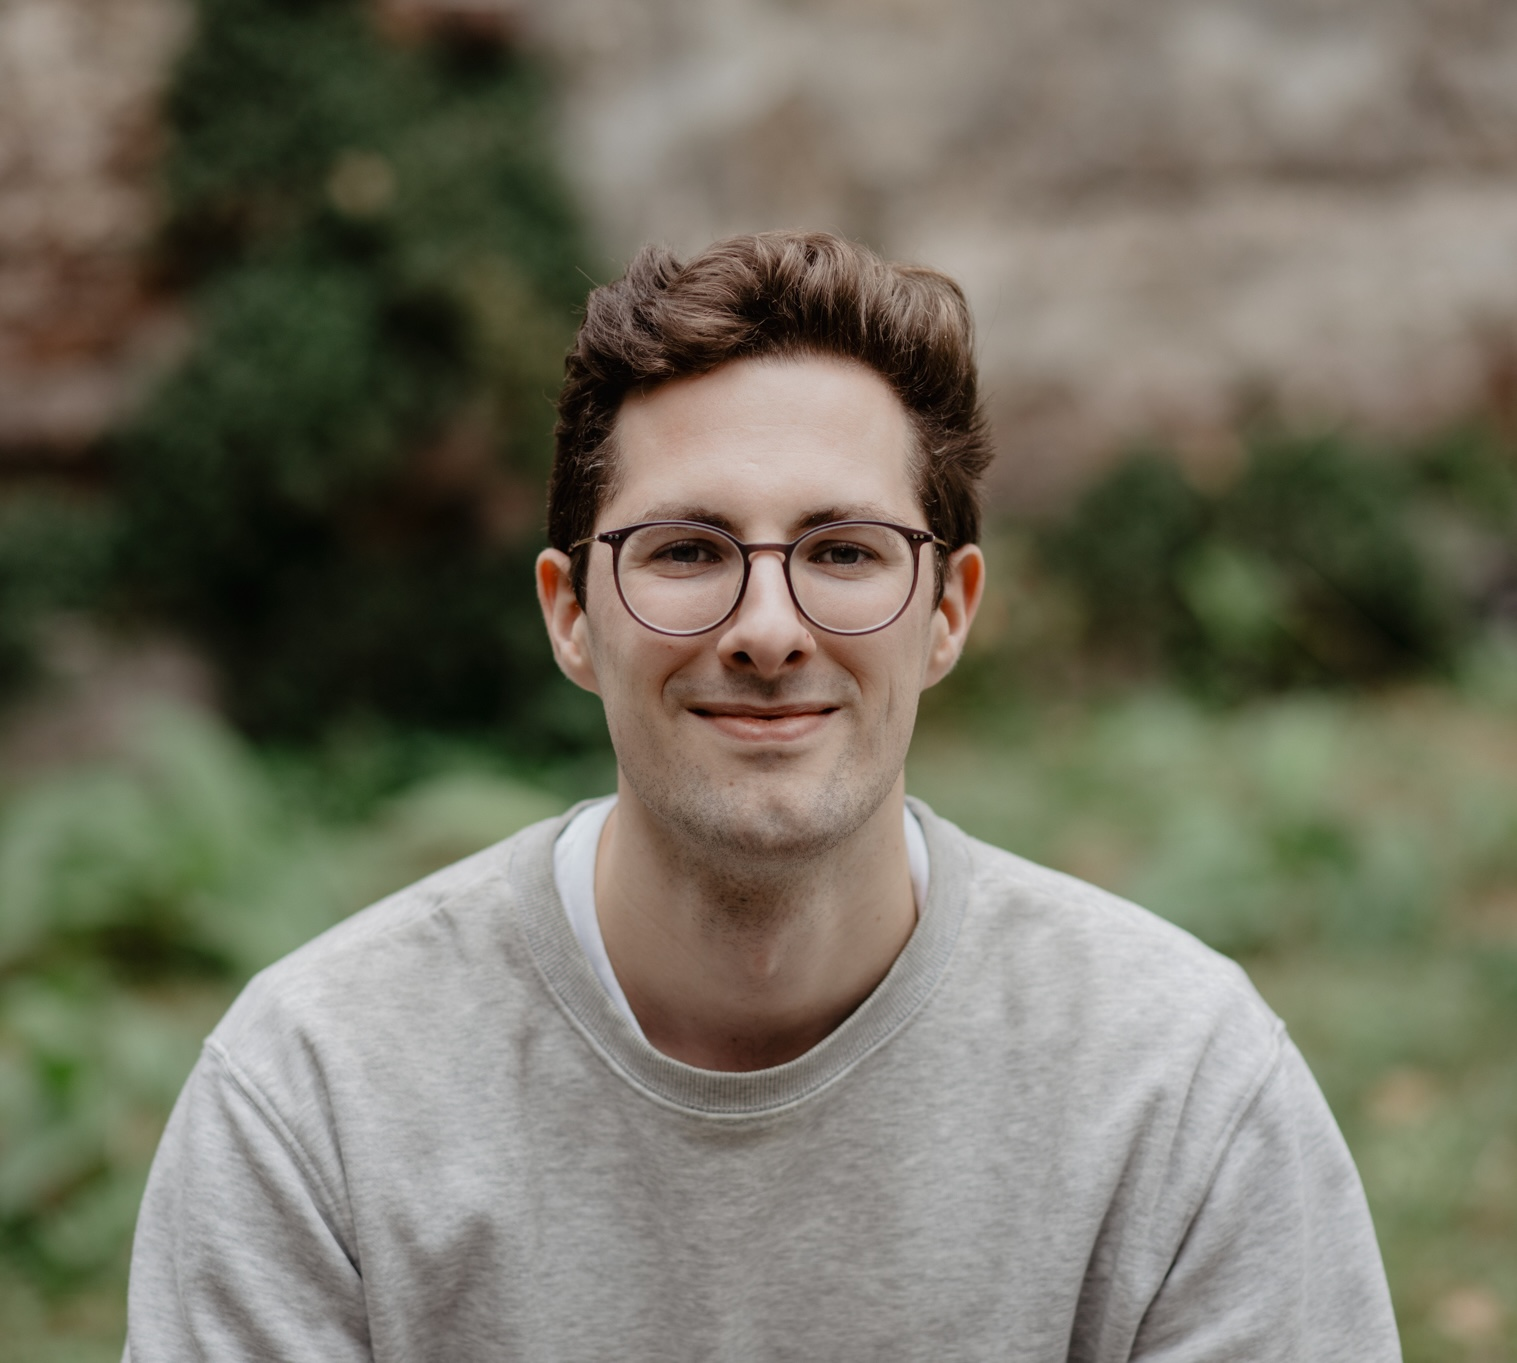
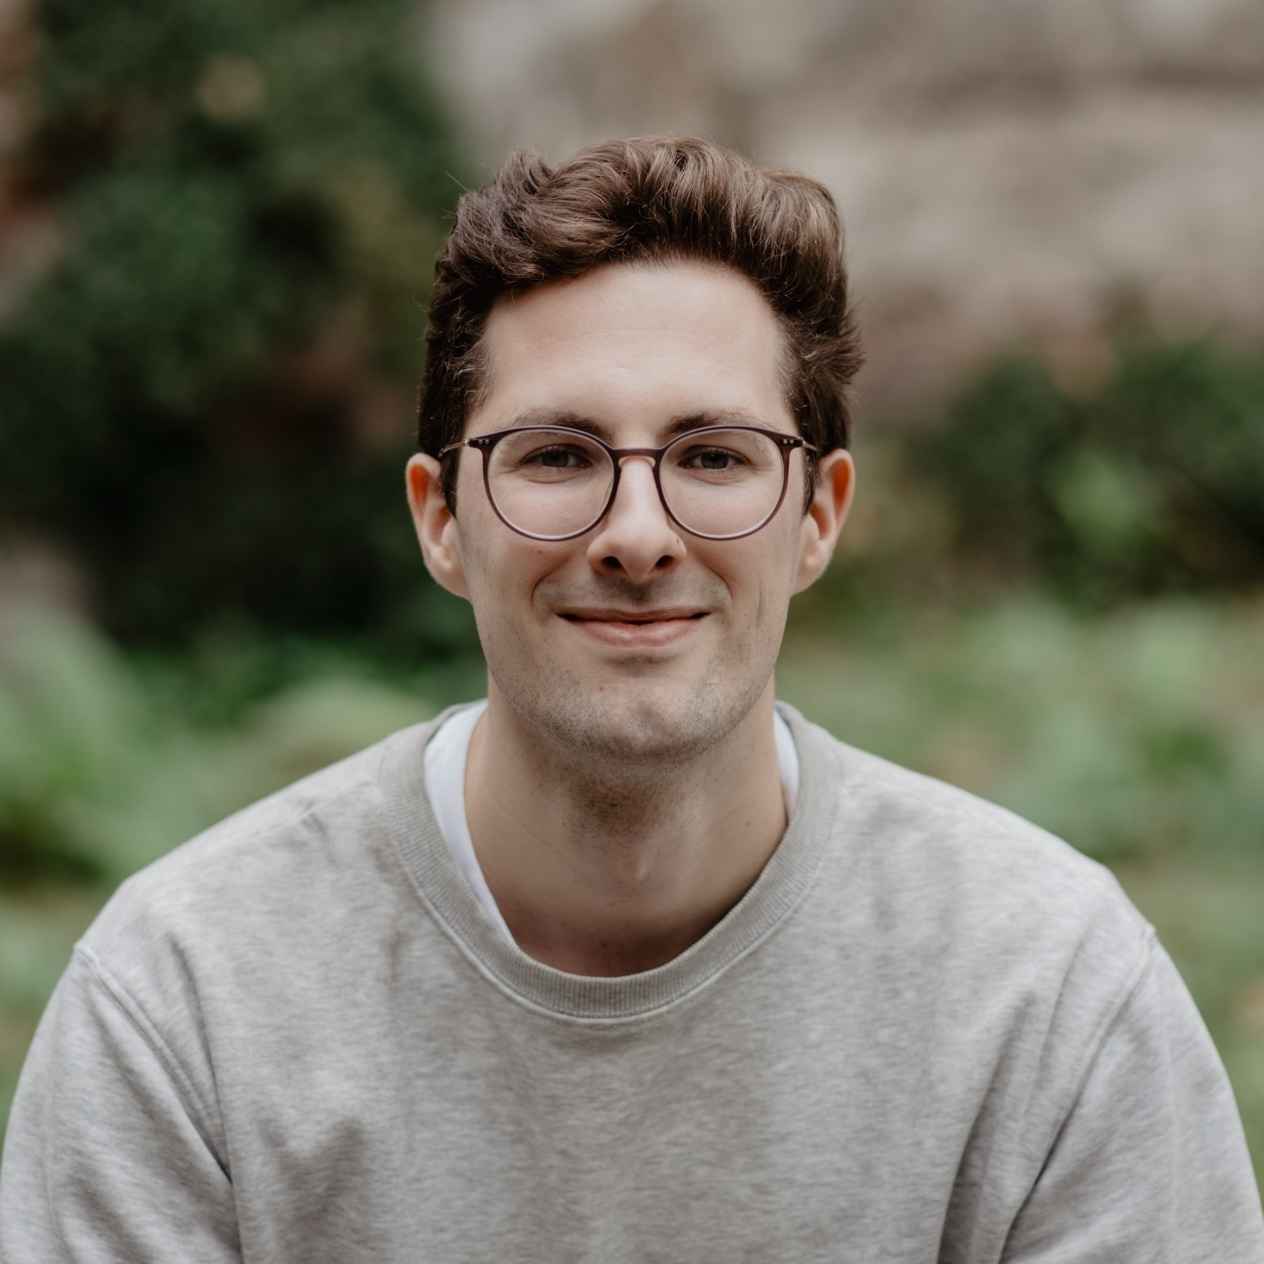
finish v1 of website

diff --git a/index.html b/index.html
@@ -17,8 +17,9 @@
                 <div class="menu">
                     <a href="/index.html#projects">Projekte</a>
                     <a href="/index.html#tech-stack">Tech-Stack</a>
+                    <a href="/index.html#tools">Tools</a>
                     <a href="/index.html#about-me">Über mich</a>
-                    <a href="/index.html#imprint">Impressum</a>
+                    <a href="/imprint.html">Impressum</a>
                 </div>
             </div>
                 <div class="container" id="projects">
@@ -35,7 +36,7 @@
                             </div>    
                             <img src="/assets/jobjournal_logo.png">
                         </div>
-                            <p>Jobjournal entstand im Rahmen meiner <a href="https://th-koeln.github.io/mi-bachelor-praxisprojektseminar/abschlussvortraege/2022-07-05/brock-sebastian/">Bachelorarbeit</a> an der TH Köln.<br><br>Ziel war es, eine Progressive Web App mit Offline-Fähigkeit für ein Unternehmen zu entwickeln, sodass Mitarbeiter auch in Arbeitssituationen ohne Internetverbindung Arbeitspläne verwalten, und geleistete Arbeitszeit eintragen konnten.<br><br>Die App ist bis heute erfolgreich im Unternehmen im Einsatz und wird stetig erweitert - so kam seit Abschluss der Bachelorarbeit u.A. ein komplettes Abrechnungssystem mit Anbindung an die Buchhaltung hinzu.</p>
+                            <p>Jobjournal entstand im Rahmen meines <a href="https://th-koeln.github.io/mi-bachelor-praxisprojektseminar/abschlussvortraege/2022-07-05/brock-sebastian/">Praxisprojekts & Bachelorarbeit</a> an der TH Köln.<br><br>Ziel war es, eine Progressive Web App mit Offline-Fähigkeit für ein Partnerunternehmen zu entwickeln, sodass Mitarbeiter auch in Arbeitssituationen ohne Internetverbindung Arbeitspläne verwalten, und geleistete Arbeitszeit eintragen konnten.<br><br>Die App ist bis heute erfolgreich im Unternehmen im Einsatz und wird stetig erweitert - so kam seit Abschluss der Bachelorarbeit u.A. ein komplettes Abrechnungssystem mit Anbindung an die Buchhaltung hinzu.</p>
                         </div>
                         <div class="container-post">
                             <div class="container-header">
@@ -91,12 +92,53 @@
                         </div>
                     </div>
                 </div>
+                <div class="container" id="tools">
+                    <h2>Tools</h2>
+                    <p>Außerdem habe ich Erfahrung mit dieser Software.</p>
+                    <div class="post-wrapper">
+                        <div class="container-post grid">
+                            <div class="single-tech">
+                                <h4>Reaper</h4>
+                                <img src="assets/reaper-logo.png">
+                            </div>
+                            <div class="single-tech">
+                                <h4>Figma</h4>
+                                <img src="assets/figma-logo.png">
+                            </div>
+                            <div class="single-tech">
+                                <h4>Photoshop</h4>
+                                <img src="assets/photoshop-logo.png">
+                            </div>
+                            <div class="single-tech">
+                                <h4>Premiere</h4>
+                                <img src="assets/premiere-logo.png">
+                            </div>
+                            <div class="single-tech">
+                                <h4>PHPStorm</h4>
+                                <img src="assets/phpstorm-logo.png">
+                            </div>
+                            <div class="single-tech">
+                                <h4>VS Code</h4>
+                                <img src="assets/vscode-logo.png">
+                            </div>
+                        </div>
+                    </div>
+                </div>
                 <div class="container" id="about-me">
                     <h2>Über mich</h2>
                     <div class="post-wrapper">
                         <div class="container-post">
+                            <div class="about-me-content text">
+                                <div class="me-header">
+                                    <img src="assets/sebastian.jpg">
+                                    <p>Nachdem ich als Kind den alten Commodore64 meines Onkels auf dem Dachboden fand, zeichnete sich der restliche Weg praktisch von alleine ab.
+                                    <br><br>Nach dem Abitur startete ich nahtlos in mein Medieninformatik-Studium an der TH Köln. Da mich die ganzheitliche Sicht von Systementwicklung interessiert, und nicht nur der reine Code, wusste ich in dem Studiengang vor allem die Flexibilität und mehrdimensionale Ansicht auf Projekte zu schätzen.
+                                    <br><br>Die stereotypische Aussage <i>"Ein Medieninformatiker kann von allem etwas, und nichts perfekt"</i> teile ich gewissermaßen und sehe es als großen Vorteil meiner Ausbildung.
+                                    <br><br>Meine Medien-Interessen lebe ich durch mein Mitwirken an der <a href="https://warehousestage.de/">WareHouseStage</a> aus, oder durch die Produktion von Podcasts wie dem <a href="https://www.circuculture.com/podcasts/circu-cast-der-podcast-uber-berufsbilder-und-personen-der-kreislaufwirtschaft-2">Circu:Cast</a>.
+                                </p>
+                                </div>
+                            </div>
                             <div class="about-me-content">
-                                <!--<p>Willkommen auf meiner Homepage! Die Domain hat lange einfach auf meine <a href="https://www.linkedin.com/in/sebastian-brock-974783204/">LinkedIn-Seite</a> gezeigt, nun wollte ich aber umgesetzte Projekte mit etwas mehr Persönlichkeit im Web präsentieren.</p>-->
                                 <div class="category">
                                     <h3>Bildungsweg</h3>
                                     <h4>2019</h4>
@@ -109,9 +151,9 @@
                                 <div class="category">
                                     <h3>Berufserfahrung</h3>
                                 <h4>11/2021 - 08/2025</h4>
-                                <p><b>Webentwickler</b><br><a href="https://kiwis-and-brownies.de/">Kiwis & Brownies</a></p>
+                                <p><b>Webentwickler</b><br><a href="https://kiwis-and-brownies.de/">Kiwis & Brownies</a>, Gummersbach</p>
                                 <h4>09/2025 - Heute</h4>
-                                <p><b>Webentwickler</b><br><a href="https://railslove.com/">Railslove</a></p>
+                                <p><b>Webentwickler</b><br><a href="https://railslove.com/">Railslove</a>, Köln</p>
                                 </div>
                             </div>
                             <!--<img src="assets/sebastian.jpg">-->
@@ -119,7 +161,7 @@
                     </div>
                 </div>
             <div class="footer">
-                <a href="http://google.com">Impressum</a>
+                <a href="/imprint.html">Impressum</a>
             </div> 
         </div>
     </div>

diff --git a/imprint.html b/imprint.html
@@ -1,0 +1,45 @@
+<!DOCTYPE html>
+<html lang="de">
+<head>
+    <meta charset="UTF-8">
+    <meta name="viewport" content="width=device-width, initial-scale=1.0">
+    <meta name="description" content="Sebastian Brock IT-Dienstleistungen">
+    <title>Sebastian Brock - IT-Dienstleistungen</title>
+    <link rel="stylesheet" href="style.css">
+    <link rel="icon" href="assets/sb_icon.ico">
+</head>
+<body>
+    <div class="bg"></div>
+    <div class="wrapper" id="wrapper">
+        <div class="site-content">
+            <div>
+                <img src="sb_logo_white.svg">
+                <div class="menu">
+                    <a href="/index.html#projects">Projekte</a>
+                    <a href="/index.html#tech-stack">Tech-Stack</a>
+                    <a href="/index.html#tools">Tools</a>
+                    <a href="/index.html#about-me">Über mich</a>
+                    <a href="/imprint.html">Impressum</a>
+                </div>
+            </div>
+                <div class="container" id="imprint">
+                    <h2>Impressum</h2>
+                    <p><br>Angaben gemäß § 5 DDG und § 18 MStV<br><br>
+                    Sebastian Brock<br>
+                    Hirschgäßchen 4<br>
+                    50678 Köln<br><br>
+                    Kontakt:<br>
+                    E-Mail: mail@sebastianbrock.de<br>
+                    Telefon: 0157 57239882<br><br>
+                    Haftungsausschluss:<br>
+                    Die Inhalte meiner Seite wurde mit größter Sorgfalt erstellt. Für die Richtigkeit, Vollständigkeit und Aktualität der Inhalte kann ich jedoch keine Gewähr übernehmen. Als Diensteanbieter bin ich gemäß § 7 Abs.1 TMG für eigene Inhalte auf diesen Seiten nach den allgemeinen Gesetzen verantwortlich. Nach §§ 8 bis 10 TMG bin ich als Diensteanbieter jedoch nicht verpflichtet, übermittelte oder gespeicherte fremde Informationen zu überwachen oder nach Umständen zu forschen, die auf eine rechtswidrige Tätigkeit hinweisen. Verpflichtungen zur Entfernung oder Sperrung der Nutzung von Informationen nach den allgemeinen Gesetzen bleiben hiervon unberührt. Eine diesbezügliche Haftung ist jedoch erst ab dem Zeitpunkt der Kenntnis einer konkreten Rechtsverletzung möglich. Bei Bekanntwerden von entsprechenden Rechtsverletzungen werde ich diese Inhalte umgehend entfernen.
+                    </p>
+                </div>
+            <div class="footer">
+                <a href="/imprint.html">Impressum</a>
+            </div> 
+        </div>
+    </div>
+    <script src="script.js"></script>
+</body>
+</html>

diff --git a/style.css b/style.css
@@ -11,6 +11,10 @@ p {
   margin-bottom: 0;
 }
 
+i {
+  color: rgb(244, 228, 6)
+}
+
 h2, h3, h4 {
   margin: 0;
 }
@@ -56,7 +60,7 @@ img {
 }
 
 .site-content {
-  max-width: min(900px, 90vw);
+  max-width: min(600px, 90vw);
   gap: 40px;
   padding: 20px;
   margin: 0 !important;
@@ -77,14 +81,14 @@ img {
     width: 100vw;
     position: sticky;
     padding-bottom: 40px;
-    max-width: 900px;
+    max-width: 600px;
     padding-top: 40vh;
     padding-bottom: 20vh;
 }
 
 .main-content {
   width: 100vw;
-  max-width: 900px;
+  max-width: 600px;
 }
 
 .container {
@@ -113,7 +117,7 @@ img {
 }
 
 .container-post p {
-  max-width: 700px;
+  max-width: 500px;
   margin: 20px 0 20px 0;
 }
 
@@ -169,6 +173,7 @@ img {
 
 #about-me p {
   margin: 0 0 10px 0;
+  max-width: 400px;
 }
 
 #about-me h3 {
@@ -180,16 +185,27 @@ img {
   font-size: 1.2rem;
 }
 
-#about-me .container-post {
+.about-me-content {
   display: flex;
-  justify-content: space-between;
+  flex-wrap: wrap;
+  gap: 40px;
+  width: 100%;
+}
+
+.me-header {
+  padding-bottom: 40px;
+}
+
+.about-me-content.text {
+  flex-direction: column;
+}
+
+#about-me .container-post {
   position: relative;
 }
 
 #about-me .category {
   margin-bottom: 20px;
-  width: 100%;
-  border-bottom: solid 1px rgba(255, 255, 255, 0.2);
 }
 
 #about-me .category p {
@@ -198,17 +214,22 @@ img {
 
 #about-me .container-post img {
   width: 150px;
-  border-radius: 10px;
+  height: 150px;
+  padding: 0 0 2px 2px;
+  border-radius: 100%;
   mix-blend-mode: luminosity;
   object-fit: cover;
+  float: right;
 }
 
+
 .menu {
-    width: 100%;
+    width: 90%;
     display: flex;
     flex-wrap: wrap;
     justify-content: center;
     gap: 40px;
+    row-gap: 10px;
 }
 
 .menu a {
